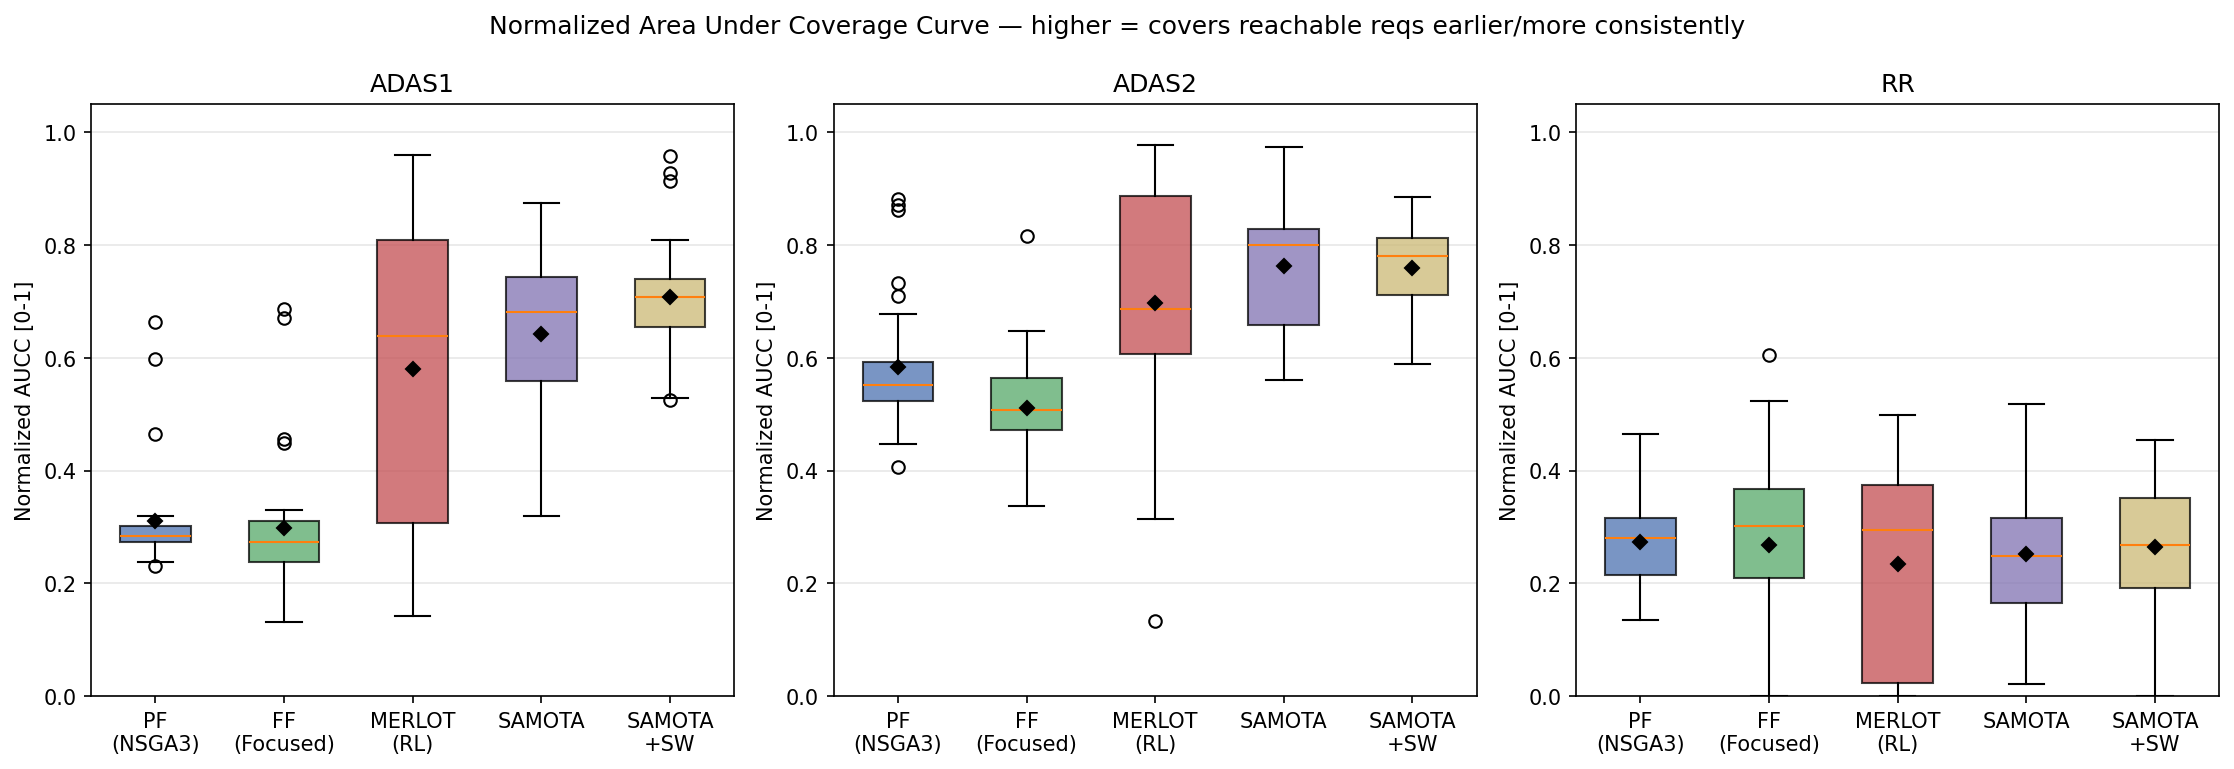
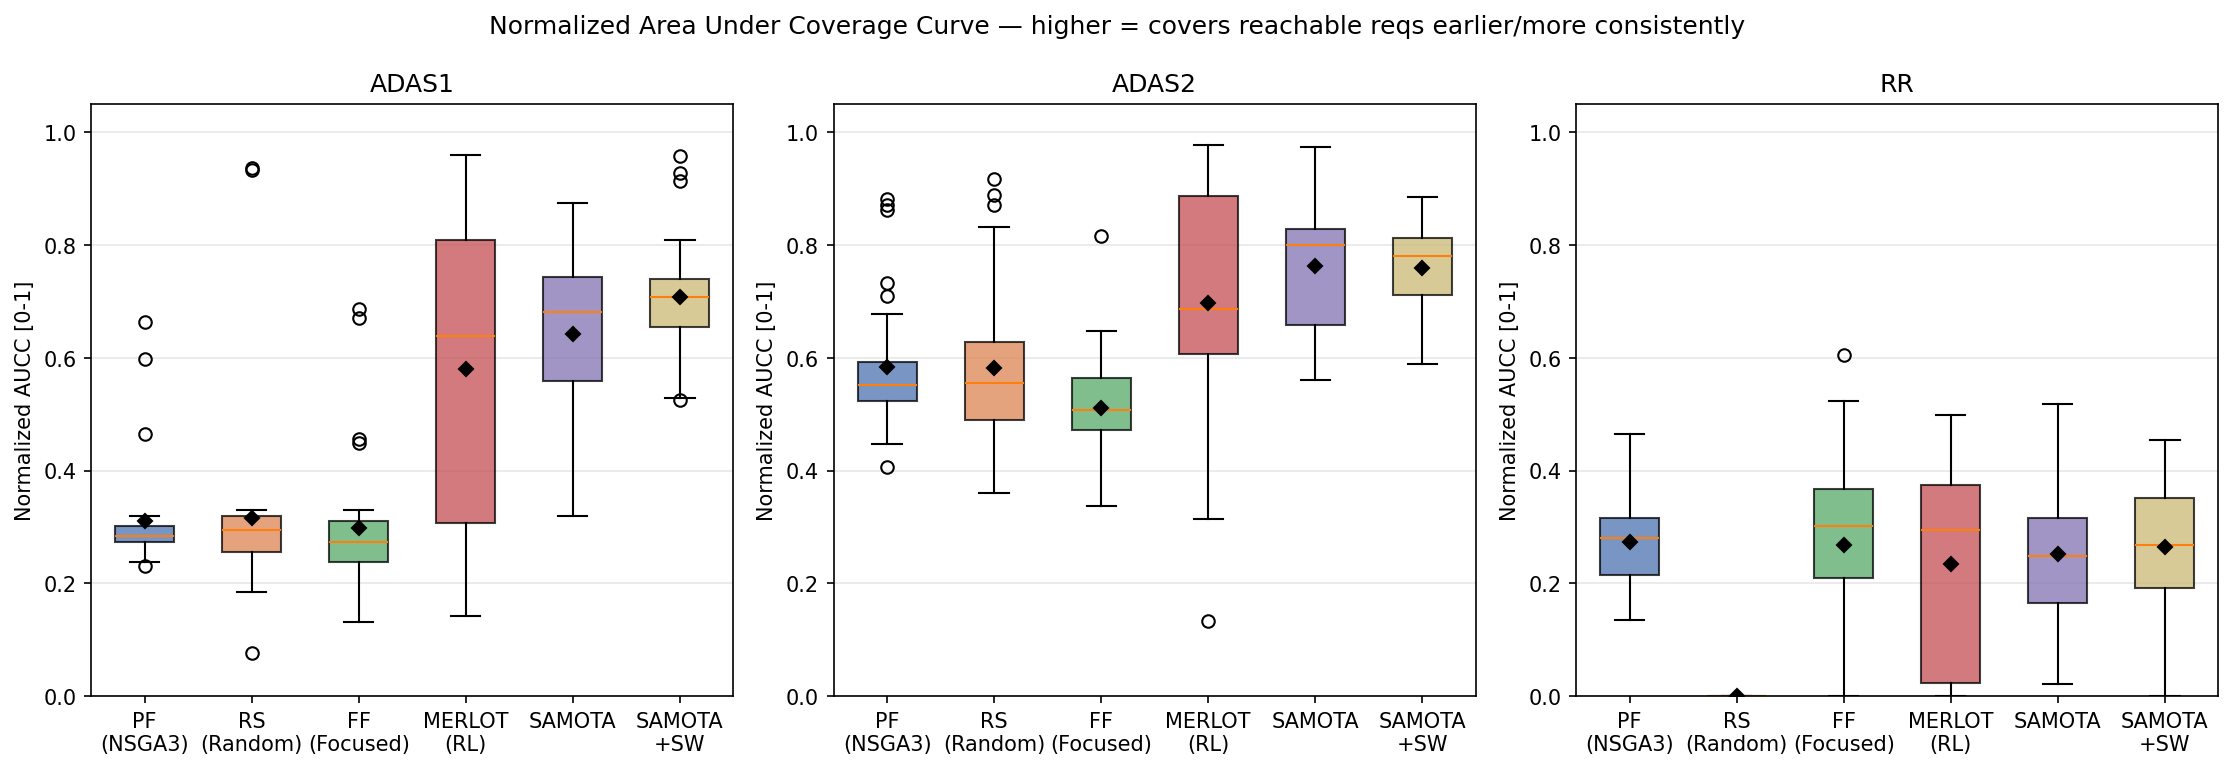
Add RS back to AUCC and diversity analysis scripts
ALGOS list in both scripts was missing RS even though the data was
present in results_diversity/, so it never showed up in the tables or
plots. Regenerated the outputs with it included.

diff --git a/analyze_aucc_all.py b/analyze_aucc_all.py
@@ -1,8 +1,7 @@
 #!/usr/bin/env python3
 """
-Area-Under-Coverage-Curve (AUCC) analysis across all 5 algorithms and all 3
+Area-Under-Coverage-Curve (AUCC) analysis across all 6 algorithms and all 3
 benchmarks, using real per-evaluation trace data (Reqs_all_evaluations_*).
-RS excluded (no per-eval traces in this dataset, same caveat as diversity/§4).
 
 For each run: build a step curve of "# reachable requirements violated at
 least once so far" over evaluation index, normalize eval index to % of that
@@ -12,8 +11,8 @@ for that benchmark. normalized_aucc = mean of that curve over the whole run
 (1.0 = covered everything immediately, 0.0 = never covered anything).
 
 Data sources: same as analyze_diversity_all.py
-  - PF:                 results/{BENCH}/PF/out/
-  - FF/MERLOT/SAMOTA*:   results_diversity/{BENCH}/{ALGO}/out/
+  - PF:                  results/{BENCH}/PF/out/
+  - FF/MERLOT/SAMOTA*/RS: results_diversity/{BENCH}/{ALGO}/out/
 
 Usage:
   python3.11 analyze_aucc_all.py
@@ -25,13 +24,13 @@ import matplotlib.pyplot as plt
 
 BASE = os.path.dirname(os.path.abspath(__file__))
 BENCHMARKS = ["ADAS1", "ADAS2", "RR"]
-ALGOS = ["PF", "FF", "MERLOT", "SAMOTA", "SAMOTA_SW"]
-LABEL = {"PF": "PF\n(NSGA3)", "FF": "FF\n(Focused)", "MERLOT": "MERLOT\n(RL)",
+ALGOS = ["PF", "RS", "FF", "MERLOT", "SAMOTA", "SAMOTA_SW"]
+LABEL = {"PF": "PF\n(NSGA3)", "RS": "RS\n(Random)", "FF": "FF\n(Focused)", "MERLOT": "MERLOT\n(RL)",
          "SAMOTA": "SAMOTA", "SAMOTA_SW": "SAMOTA\n+SW"}
-PREFIX = {"PF": "NSGA3", "FF": "FOC", "MERLOT": "MORLOT", "SAMOTA": "SAMOTA", "SAMOTA_SW": "SAMOTA"}
-DATA_DIR = {"PF": "results", "FF": "results_diversity", "MERLOT": "results_diversity",
+PREFIX = {"PF": "NSGA3", "RS": "RANDOM", "FF": "FOC", "MERLOT": "MORLOT", "SAMOTA": "SAMOTA", "SAMOTA_SW": "SAMOTA"}
+DATA_DIR = {"PF": "results", "RS": "results_diversity", "FF": "results_diversity", "MERLOT": "results_diversity",
             "SAMOTA": "results_diversity", "SAMOTA_SW": "results_diversity"}
-COLOR = {"PF": "#4C72B0", "FF": "#55A868", "MERLOT": "#C44E52", "SAMOTA": "#8172B2", "SAMOTA_SW": "#CCB974"}
+COLOR = {"PF": "#4C72B0", "RS": "#DD8452", "FF": "#55A868", "MERLOT": "#C44E52", "SAMOTA": "#8172B2", "SAMOTA_SW": "#CCB974"}
 OUT_DIR = os.path.join(BASE, "results", "aucc_all")
 os.makedirs(OUT_DIR, exist_ok=True)
 

diff --git a/analyze_diversity_all.py b/analyze_diversity_all.py
@@ -1,6 +1,6 @@
 #!/usr/bin/env python3
 """
-Full failure-diversity analysis across all 5 algorithms and all 3 benchmarks,
+Full failure-diversity analysis across all 6 algorithms and all 3 benchmarks,
 using real per-evaluation trace data (X_all_evaluations_*/Reqs_all_evaluations_*).
 
 Metrics (same formulas as online-step-experiments/ADAS1/analyze_failure_diversity.py):
@@ -12,8 +12,8 @@ Metrics (same formulas as online-step-experiments/ADAS1/analyze_failure_diversit
     scores via F_all_evaluations_*; others only log pass/fail).
 
 Data sources:
-  - PF:                 results/{BENCH}/PF/out/           (X_all_evaluations_NSGA3_{run}.csv)
-  - FF/MERLOT/SAMOTA*:   results_diversity/{BENCH}/{ALGO}/out/
+  - PF:                  results/{BENCH}/PF/out/           (X_all_evaluations_NSGA3_{run}.csv)
+  - FF/MERLOT/SAMOTA*/RS: results_diversity/{BENCH}/{ALGO}/out/
 
 Usage:
   python3.11 analyze_diversity_all.py
@@ -28,11 +28,11 @@ from sklearn.preprocessing import MinMaxScaler
 
 BASE = os.path.dirname(os.path.abspath(__file__))
 BENCHMARKS = ["ADAS1", "ADAS2", "RR"]
-ALGOS = ["PF", "FF", "MERLOT", "SAMOTA", "SAMOTA_SW"]
-PREFIX = {"PF": "NSGA3", "FF": "FOC", "MERLOT": "MORLOT", "SAMOTA": "SAMOTA", "SAMOTA_SW": "SAMOTA"}
-DATA_DIR = {"PF": "results", "FF": "results_diversity", "MERLOT": "results_diversity",
+ALGOS = ["PF", "RS", "FF", "MERLOT", "SAMOTA", "SAMOTA_SW"]
+PREFIX = {"PF": "NSGA3", "RS": "RANDOM", "FF": "FOC", "MERLOT": "MORLOT", "SAMOTA": "SAMOTA", "SAMOTA_SW": "SAMOTA"}
+DATA_DIR = {"PF": "results", "RS": "results_diversity", "FF": "results_diversity", "MERLOT": "results_diversity",
             "SAMOTA": "results_diversity", "SAMOTA_SW": "results_diversity"}
-COLOR = {"PF": "#4C72B0", "FF": "#55A868", "MERLOT": "#C44E52", "SAMOTA": "#8172B2", "SAMOTA_SW": "#CCB974"}
+COLOR = {"PF": "#4C72B0", "RS": "#DD8452", "FF": "#55A868", "MERLOT": "#C44E52", "SAMOTA": "#8172B2", "SAMOTA_SW": "#CCB974"}
 OUT_DIR = os.path.join(BASE, "results", "diversity_all")
 os.makedirs(OUT_DIR, exist_ok=True)
 
